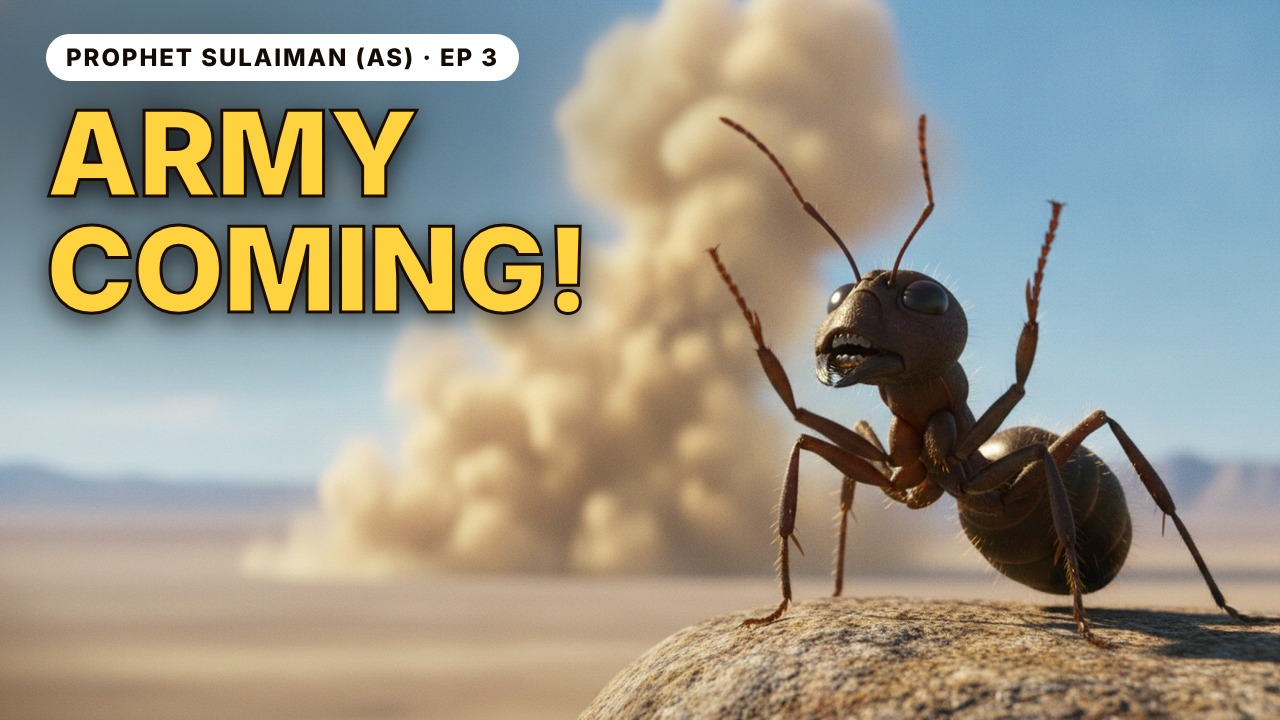
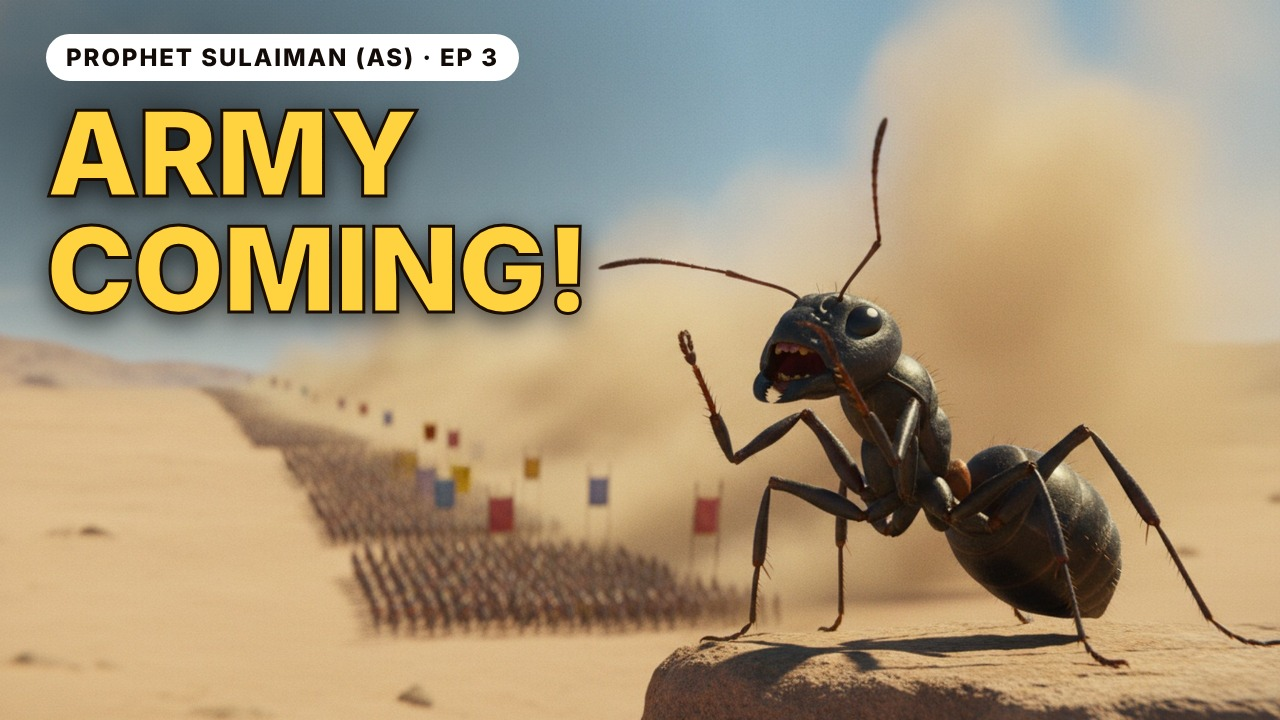
Sulaiman thumbnail with army row; rule #12 distant crowds OK
Claude-Session: https://claude.ai/code/session_019ZSVGSKwArszmxSEYesnzJ

diff --git a/scripts/handoff.md b/scripts/handoff.md
@@ -366,3 +366,4 @@ A new session can recreate these for itself (send_later / create_trigger) and de
 - 27 Nov: Ease-style A test built (calm_hook: dark first frame brightening by hook end, small italic hook, ≤6-word question hook, re-voiced 2.8–3.3 s): father, fire (Arabic STT YES ×2), valley, sea. Controls B: stars, boat, Dawud, dinars, near. Frames reports/calm-hook-test.jpg. Awaiting approval to swap.
 - 27 Nov 14:47 PKT: user approved; calm-hook A test swapped: father 444134705 (Sat 10), fire 444135364 (Sat 17:30), valley 444135444 (Sun 16), sea 444135530 (Mon 16); media 5e555d3, cover 2500 ms (frame 0 is dark by design). Controls B: stars, boat, Dawud, dinars, near. Compare stayed-to-watch next Friday. Next: Sulaiman EN thumbnail/title refresh (CTR 1.4 %); Tue 1 Dec 10:00 new Short (13:28, calm hook, hook → verse fast).
 - 27 Nov: Sulaiman EN repackage (CTR 1.4 %): title '1 Ant Spoke, 1 Prophet Smiled: Sulaiman (AS) | EP 3' (title.py 98; pair with 'ARMY COMING!' 100), thumbnail long/04-sulaiman/thumbnail/v5/thumbnail-en.jpg (one ant, dust cloud, no people; 27:18–19). Film is live → user changes title + thumbnail in Studio. Check CTR next Friday.
+- 27 Nov: user: a large distant row of soldiers is fine (rule CLAUDE.md #12). Sulaiman EN thumbnail v5 redone with the army row behind the ant (thumb_noarmy.jpg kept).

diff --git a/CLAUDE.md b/CLAUDE.md
@@ -23,6 +23,8 @@ Every new rule the user gives goes into THIS file the same turn (not only into s
 10. The comfort-Short ending "Send this to someone who needs it" WORKS (user 25 Nov: analytics show WhatsApp shares). Keep it on
    every comfort Short; track shares per Short at each Friday review.
 11. Short covers: videoCoverMilliseconds = 1000 (hook text + first picture), never the hook END (lands on a cut; user approved 26 Nov).
+12. Distant armies/crowds (a long row of tiny soldiers with banners, no single figure standing out, no faces) are FINE in
+   pictures and thumbnails even in a prophet's story (user, 27 Nov): nobody will take them for the prophet.
 
 ## Read first, every session
 1. `scripts/handoff.md`: where things stand, open items, schedule, decisions.
